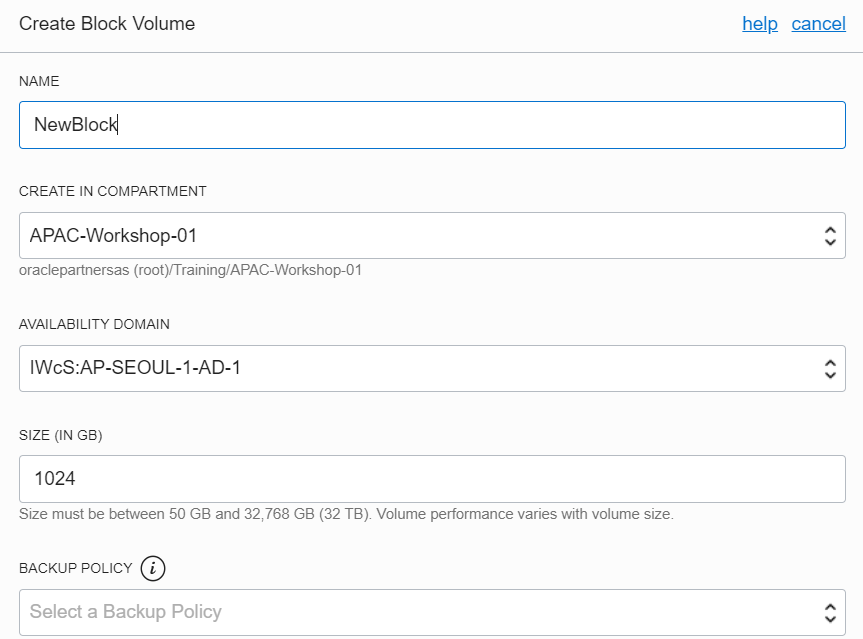
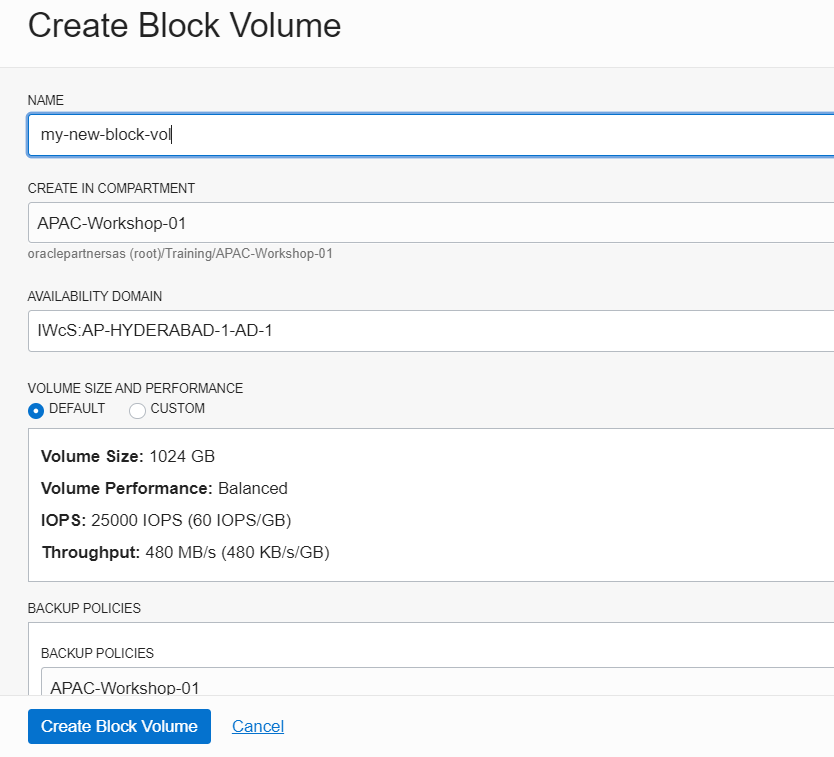
Cool updates

diff --git a/lab900/content.md b/lab900/content.md
@@ -162,7 +162,8 @@ Your workload will now run against the cloned ATP.
 
 Let's now terminate the newly created compute instance from the custom image, but keep the Boot Volume
 
-	1. Select terminate from the compute action menu
+1. Select terminate from the compute action menu
+
  	2. Do not check the box, just click on Terminate Instance
 
 <img src="./images/terminate-instance.PNG" style="zoom:67%;" />
@@ -175,23 +176,25 @@ Let's now terminate the newly created compute instance from the custom image, bu
 
     Now let’s export your custom image to the Oracle Object Store so it can be used by others.
 
-     1. From the Custom Images action menu, select Export Custom Image
+     1. From the Custom Images action menu, select Export
 
-        ![](./images/export-image-to-object-store.PNG)
+        <img src="./images/export-image-to-object-store.PNG" style="zoom:67%;" />
 
-    2. Select your compartment
+        
 
     3. Select the bucket you want to export the image. If you don’t have a bucket, you can create one in the Object Storage.
 
-    4. Give it an object name.
+    4. Give it a name
 
 <img src="./images/export-image-to-object-store-2.PNG" style="zoom:67%;" />
 
 Once the image is available in the Object Store, you can download it, or even retrieve it to other cloud regions.
 
-## Step 6: Importing an Image
 
-To begin your lift and shift projects from on premise to the Oracle Cloud you can import images to the Object Store, and then attach them to compute instances in the cloud. Your images must first conform to the following virtual machine disk formats: VMDK, QCOW2 (KVM), or OCI. The image must have been uploaded from your on premise to the Object Store for the import. 
+
+## (Optional) Step 6: Importing your own Image
+
+To begin your move and improve projects from on premise to the Oracle Cloud you can import images to the Object Store, and then attach them to compute instances in the cloud. Your images must first conform to the following virtual machine disk formats: VMDK, QCOW2 (KVM), or OCI. The image must have been uploaded from your on premise to the Object Store for the import. 
 
 There are tools you can use on premise to create the virtual machine disk formats. 
 
@@ -203,7 +206,7 @@ Also for converting between formats.
 
 qemu-img convert –f raw –O qcow2 image.img image.qcow2
 
-The following example process describes how to lift a disk image from on prem to the object store. Then import the image from the object store so it can be used to create an instance.
+The following example process describes how to lift a disk image from on prem to the Object Store. Then import the image from the Object Store so it can be used to create an instance.
 
 1. Create an image of your on prem disk to one of the formats: VMDK, QCOW2 (KVM)
 2. Upload the image to your object store bucket
@@ -211,30 +214,47 @@ The following example process describes how to lift a disk image from on prem to
 4. Select a compartment to import
 5. Give your image a name
 6. Select the operating system
-7. Enter the Object Storage URL to the image. You can locate the URL by navigating to the object store bucket and selecting file details.
+7. Select the bucket and image object name
 8. Select the image type
+9. Select the launch mode
 
-![](./images/import-image.PNG)
+<img src="./images/import-image.PNG" style="zoom:67%;" />
 
 <img src="./images/import-image-2.PNG" style="zoom:67%;" />
+
+
 
 ## Step 7: Create New Block Volume
 
 Let’s add a non bootable block volume.  Block volumes are useful for expanding your block storage for more data or installing additional applications.
 
-1. Enter a name of the volume
-2. Select your compartment
-3. Select your Availability Domain
-4. Keep the default size or size down
-5. Set a Backup Policy like Bronze
-6. Encrypt using Oracle Managed Keys
-7. Create
+1. Navigate to Block Storage and Block Volumes
+
+2. Enter a name of the volume
+
+3. Select your compartment
+
+4. Select your Availability Domain
+
+5. Select the default volume size and performance.  In custom, you can create volumes for low cost to high performance.
+
+6. Set a Backup Policy like Bronze
+
+   Gold - The gold policy includes daily incremental backups. These backups are retained for seven days. This policy also includes weekly incremental backups that run on Sunday and are retained for four weeks. Also includes monthly incremental backups, run on the first day of the month, retained for twelve months, and a full backup, run yearly on January 1st. Full backups are retained for five years.
+
+   Silver - The silver policy includes weekly incremental backups that run on Sunday. These backups are retained for four weeks. This policy also includes monthly incremental backups, run on the first day of the month and are retained for twelve months. Also includes a full backup, run yearly on January 1st. Full backups are retained for five years.
+
+   Bronze - The bronze policy includes monthly incremental backups, run on the first day of the month. These backups are retained for twelve months. This policy also includes a full backup, run yearly on January 1st. Full backups are retained for five years.
+
+7. Encrypt using Oracle Managed Keys.  You can also provide your own encryption keys.
+
+8. Create
 
 ![](./images/create-block-volume.PNG)
 
-<img src="./images/create-block-volume-2.png" style="zoom: 50%;" />
+<img src="./images/create-block-volume-2.png" style="zoom: 67%;" />
 
-<img src="C:\Users\mwan.ORADEV\Documents\GitHub\Move_Improve\lab900\images\create-block-volume-3.png" style="zoom:50%;" />
+<img src="C:\Users\mwan.ORADEV\Documents\GitHub\Move_Improve\lab900\images\create-block-volume-3.png" style="zoom: 67%;" />
 
 You now have a block volume that you can attach to your instance. 
 
@@ -242,14 +262,20 @@ You now have a block volume that you can attach to your instance.
 
 Block volumes can be backed up manually outside of the auto backup policy. Once backed up it can even be copied across regions.
 
-1. Navigate to Block Volume Backups
-2. Click Create Block Volume Backup and manually create a backup of your block storage
+1. Navigate to Block Volumes
+2. Select the 3 dot menu and select Create Manual Backup
+3. Provide your manual backup a name
+4. Indicate full or incremental backup
 
-Once you have created a manual backup, you can select the 3 dot action menu to see the actions such as Copy to Another Region. 
+You can see the status in Block Volume Backups
 
-<img src="C:\Users\mwan.ORADEV\Documents\GitHub\Move_Improve\lab900\images\copy-block-to-region.PNG" style="zoom:67%;" />
+Once you have created a manual backup, you can  Copy to Another Region.  This is useful if your application is deployed in more than one region.
 
-<img src="./images/copy-block-to-region-2.PNG" style="zoom:50%;" />
+<img src="./images/copy-block-to-region.PNG" style="zoom: 67%;" />
+
+<img src="./images/copy-block-to-region-2.PNG" style="zoom: 67%;" />
+
+
 
 End of lab.
 
